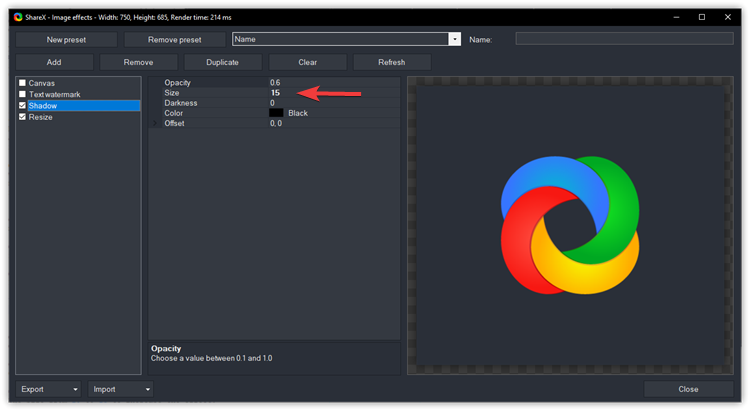
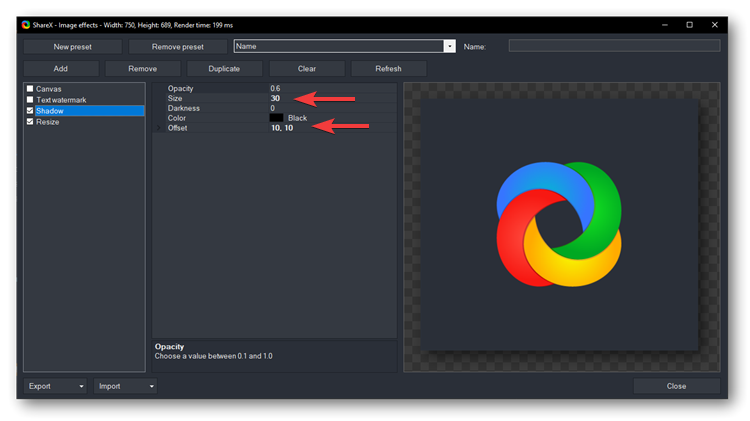
Update documentation

diff --git a/drafts/configuring-sharex.html b/drafts/configuring-sharex.html
@@ -121,7 +121,8 @@ the screen.</p>
 <p>I went to Task Settings, and then to the Image\Effects tab, and click on Image
 effects configuration.</p>
 <p>I clicked on Add, and from the Filter submenu, selected the Shadow effect. I
-changed the size from 10 to 15 to increase the effect.</p>
+changed the size from 10 to 30 to increase the effect, and also set the offset
+to 10 pixels in both the X and Y directions.</p>
 <p>Finally, I ensured that this was the only enabled image effect and clicked on
 Close.</p>
 <p><img alt="ShareX Image Effects" src="https://simulatine.github.io/100DaysOfCode/images/2020-05-15_ShareX_Image_Effects_Shadow_Dialog.png"></p>
@@ -131,14 +132,17 @@ Close.</p>
 I clicked the gear icon to the left of Capture Region to configure this
 workflow.</p>
 <p><img alt="ShareX Hotkey Settings" src="https://simulatine.github.io/100DaysOfCode/images/2020-05-15_ShareX_Hotkey_Settings_Dialog.png"></p>
-<p>I enabled Override after capture settings, and checked the following tasks:
-Add image effects/watermark - this will add the drop shadow effect I configured
-above.
-Open in image editor - allowing me to annotate the image, add arrows or
-highlight specific areas of interest.
-Save image to file as - so that I can give the file a proper name and save it
-to a target folder of my choice.
-Copy file path to clipboard - ready for me to paste into my Markdown document.</p>
+<p>I enabled Override after capture settings, and checked the following four
+tasks:</p>
+<ul>
+<li>Add image effects/watermark - this will resize the image to a maximum of 750
+pixels wide and add the drop shadow effect I configured above.</li>
+<li>Open in image editor - allowing me to annotate the image, add arrows or
+highlight specific areas of interest.</li>
+<li>Save image to file as - so that I can give the file a proper name and save it
+to a target folder of my choice.</li>
+<li>Copy file path to clipboard - ready for me to paste into my Markdown document.</li>
+</ul>
 <p><img alt="ShareX Task Override Menu" src="https://simulatine.github.io/100DaysOfCode/images/2020-05-15_ShareX_Task_Override_Menu.png"></p>
 <p>I don't need to do any of the other tasks here.</p>
     </div><!-- /.entry-content -->
